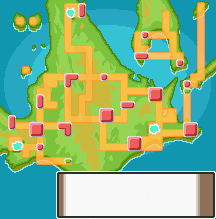
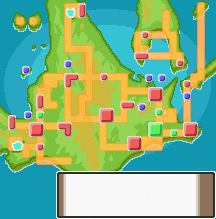
Added some more routes to platinum

diff --git a/platinum.js b/platinum.js
@@ -25,9 +25,19 @@ var platinum = {
         resortarea:   {x: 176, y: 59,  w: 8,  h: 8,  scale: 1, name: "Resort Area"    },
         
         // Routes
+        route204:       {x: 36,  y: 111, w: 8,  h: 8,  scale: 1, name: "Route 204" },
+        route214:       {x: 155, y: 108, w: 8,  h: 8,  scale: 1, name: "Route 214" },
+        valorlakefront: {x: 148, y: 122, w: 15, h: 15, scale: 1, name: "Valor Lakefront\nRoute 213" },
+        route222:       {x: 170, y: 129, w: 8,  h: 8,  scale: 1, name: "Route 222" },
         
         // Important locations
-        departmentstore: {x: 1, y: 1,  w: 30,  h: 30, scale: 1, name: "Department Store\nTest" },
+        jubilifetv_poketch: {x: 24,  y: 111, w: 8, h: 8, scale: 1, name: "Jubilife TV\nPokétch Company" },
+        eternagalactic:     {x: 64,  y: 60,  w: 8, h: 8, scale: 1, name: "Galactic Eterna"              },
+        solaceonruins:      {x: 138, y: 103, w: 8, h: 8, scale: 1, name: "Solaceon Ruins"               },
+        departmentstore:    {x: 145, y: 74,  w: 8, h: 8, scale: 1, name: "Department Store"             },
+        galactichq:         {x: 158, y: 74,  w: 8, h: 8, scale: 1, name: "Team Galactic HQ"             },
+        ironisland:         {x: 22,  y: 66,  w: 8, h: 8, scale: 1, name: "Iron Island"                  },
+        victoryroad:        {x: 183, y: 92,  w: 8, h: 8, scale: 1, name: "Victory Road"                 },
     },
 
     // Undefined fields:
